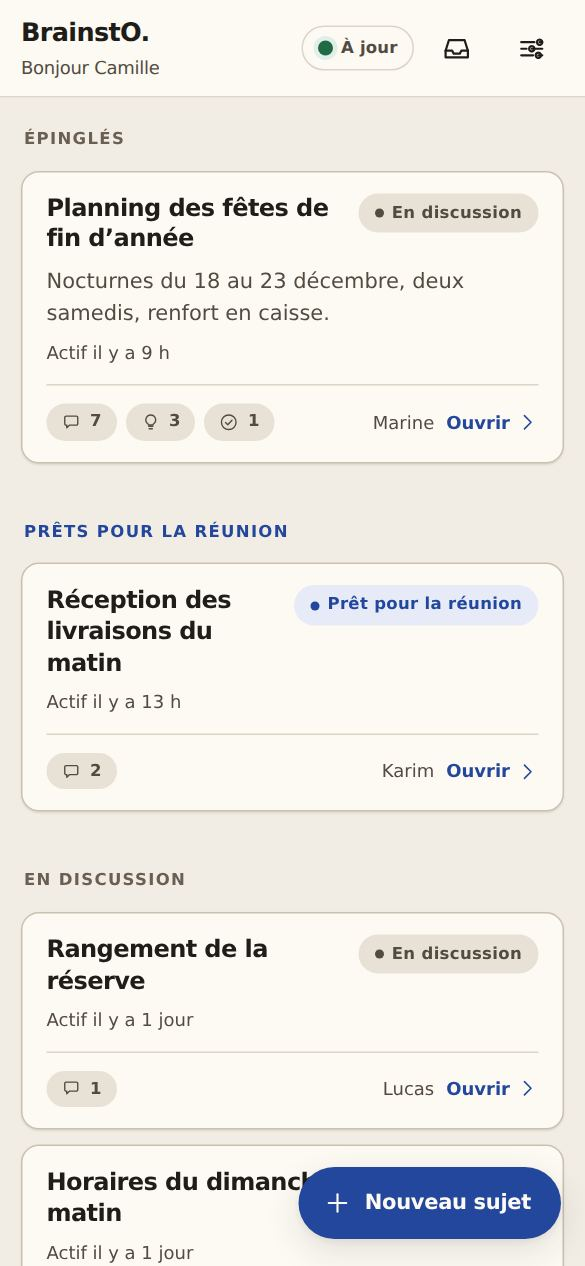
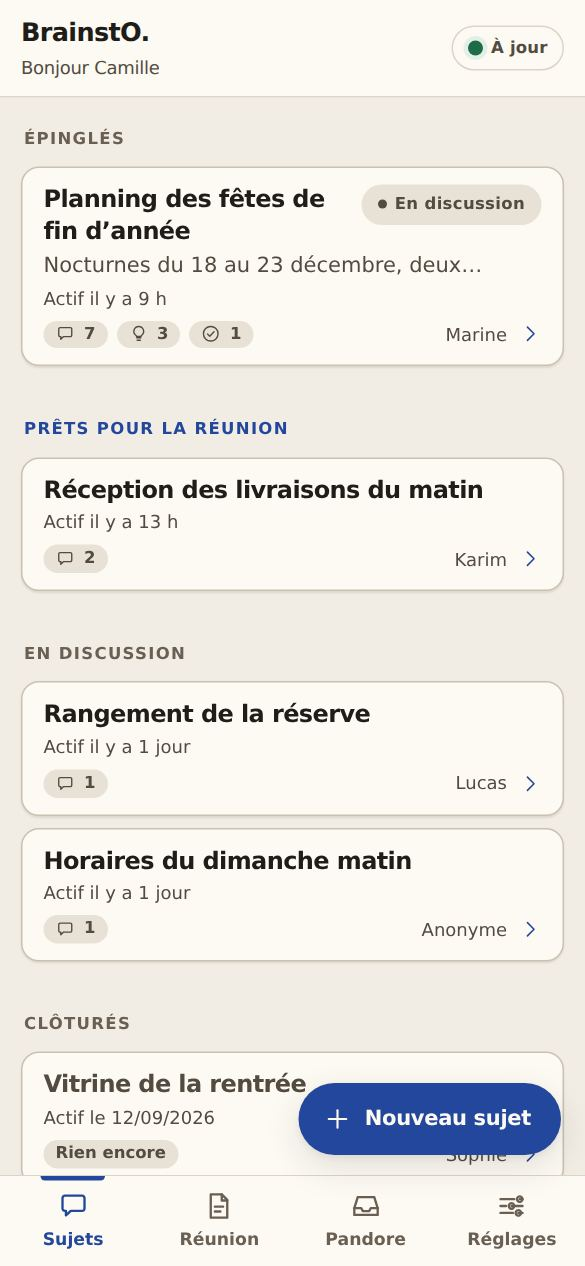
docs(readme) : captures de la nouvelle interface, Pandore en section à part
Claude-Session: https://claude.ai/code/session_01HUMBkYaS726M1kcNc9NEm2

diff --git a/README.md b/README.md
@@ -22,13 +22,14 @@ publicité ni service payant : les données restent sur le Google Drive de l'éq
 
 | | |
 |---|---|
+| **Navigation** | Quatre onglets en bas de l'écran : Sujets, Réunion, Pandore, Réglages. |
 | **Sujets** | Un sujet par point à traiter, classé par avancement : prêt pour la réunion, en discussion, clôturé. Les plus importants s'**épinglent** en tête, pour toute l'équipe. |
 | **Discussion** | Un fil de messages par sujet. **Appui long** sur un message pour réagir, copier ou en faire une proposition ; **glisser vers la droite** pour le citer. |
 | **Anonymat** | Un interrupteur dans la zone d'écriture : le message part signé ou « Anonyme ». Un sujet peut aussi être proposé sans signature. |
 | **Propositions** | Pour, contre ou abstention, un vote par personne, modifiable. La barre montre où en est l'équipe. |
 | **Consensus** | Chaque sujet se referme sur un consensus ; celui qui arrive en tête sert de repère pour la réunion. |
 | **Réunion** | Une synthèse de tous les sujets, prête à projeter ou à imprimer. |
-| **Pandore** | L'espace anonyme où l'on dépose ce qui ne se dit pas en réunion : idées, plaintes, questions. Une IA en écrit une **synthèse automatique**, lisible par tous. |
+| **Pandore** | Une section à part : la zone d'**expression libre et anonyme**, où l'on dépose ce qui ne se dit pas en réunion (idées, plaintes, questions). Ce n'est pas une discussion : une IA en écrit une **synthèse automatique**, lisible par tous. |
 | **Invitation** | Depuis les Réglages, un lien envoyé par SMS, mail ou WhatsApp ouvre l'application déjà réglée sur l'équipe : il ne reste qu'à saisir le code d'accès. |
 | **Hors connexion** | L'application s'ouvre sans réseau ; ce qu'on écrit part tout seul au retour de la connexion. |
 
